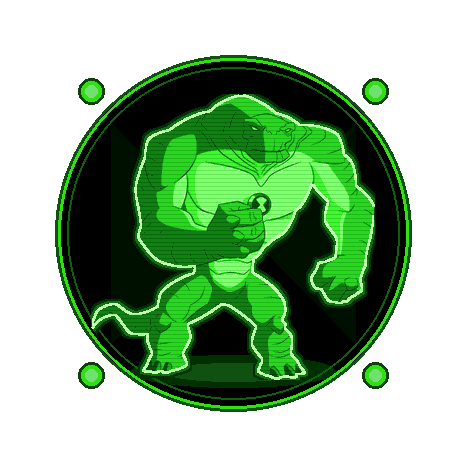
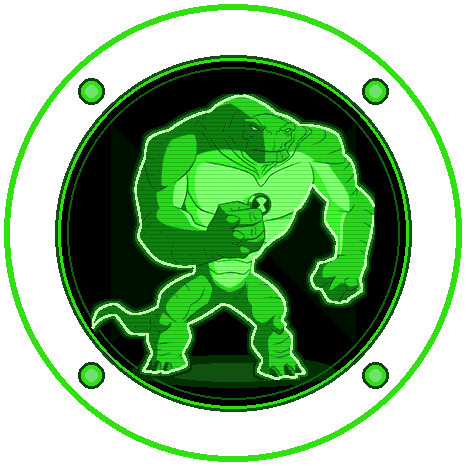
Start Alien Force template on auto-red Omnitrix with adaptive color-matched battery ring

diff --git a/studio/index.html b/studio/index.html
@@ -871,14 +871,14 @@
               <select id="tsMode" onchange="syncTapUI(); schedulePreview();">
                 <option value="day_night">Day / Night Theme Gradients</option>
                 <option value="omnitrix_themes">Ben 10 Omnitrix Themes</option>
-                <option value="custom_images">Custom Uploaded Images (2–6)</option>
+                <option value="custom_images">Custom Uploaded Images (2–8)</option>
               </select>
             </div>
             <button type="button" class="btn btn-sm" onclick="cycleTapPreview()">Simulate Watch Tap · Next Scene ↻</button>
 
             <div id="tsDayNightBox" class="sub-box">
               <div style="display:flex; justify-content:space-between; align-items:center;">
-                <span style="font-size:11.5px; font-weight:600;">Gradient Scenes (2–6)</span>
+                <span style="font-size:11.5px; font-weight:600;">Gradient Scenes (2–8)</span>
                 <button type="button" class="btn btn-xs" onclick="addTapTheme()">+ Theme</button>
               </div>
               <div id="tsThemesList" style="display:flex; flex-direction:column; gap:6px;"></div>
@@ -895,14 +895,14 @@
                 </select>
               </div>
               <div class="prop-row">
-                <label>Themes to Cycle (2–6)</label>
+                <label>Themes to Cycle (2–8)</label>
                 <div class="check-grid" id="tsOmniThemeChecks"></div>
               </div>
             </div>
 
             <div id="tsCustomBox" class="sub-box" style="display:none;">
               <div class="dropzone" id="tsDropzone" onclick="document.getElementById('tsFileInput').click()">
-                Add 2–6 scene images (PNG / JPG / WEBP)
+                Add 2–8 scene images (PNG / JPG / WEBP)
                 <input type="file" id="tsFileInput" accept="image/*" multiple style="display:none" onchange="addTapCustomImages(this.files); this.value='';" />
               </div>
               <div class="asset-grid" id="tsCustomGrid"></div>
@@ -1349,6 +1349,7 @@
               <label>Style</label>
               <select id="gStyle" onchange="onGaugeStyleChange(this.value)">
                 <option value="ring">Outer 360° Ring (01 12)</option>
+                <option value="ring_mask">Adaptive Color-Match Ring Mask (01 12)</option>
                 <option value="inner_ring">Inner 360° Ring (01 12)</option>
                 <option value="arc">Bottom Curved Arc (01 12)</option>
                 <option value="top_arc">Top Curved Arc (01 12)</option>
@@ -1644,7 +1645,8 @@
         if (!g) return null;
         const isNative = g.kind === "native_battery_bar" || g.style === "native_bar";
         const isOmniLow = g.style === "omnitrix_low_red";
-        const lbl = isNative ? "Batt Fill Bar (01 05)" : isOmniLow ? "Low-Batt Red (<50%)" : `Gauge · ${cap(g.metric || "battery")}`;
+        const isRingMask = g.style === "ring_mask";
+        const lbl = isNative ? "Batt Fill Bar (01 05)" : isOmniLow ? "Low-Batt Red (<50%)" : isRingMask ? "Adaptive Batt Ring" : `Gauge · ${cap(g.metric || "battery")}`;
         return { label: lbl, icon: isNative ? "🔋" : isOmniLow ? "⚡" : "◔", enabled: g.enabled !== false, removable: true };
       }
       if (tok.startsWith("overlay:")) {
@@ -1907,7 +1909,7 @@
     function syncGaugeFieldVisibility(style) {
       const isNative = style === "native_bar";
       const isOmniLow = style === "omnitrix_low_red";
-      const isRingOrArc = ["ring", "inner_ring", "arc", "top_arc", "left_arc", "right_arc"].includes(style);
+      const isRingOrArc = ["ring", "ring_mask", "inner_ring", "arc", "top_arc", "left_arc", "right_arc"].includes(style);
       const isPos = ["bar", "icon", "native_bar"].includes(style);
       document.getElementById("gMetricRow").style.display = (isNative || isOmniLow) ? "none" : "flex";
       document.getElementById("gBorderColRow").style.display = isNative ? "flex" : "none";
@@ -1925,6 +1927,7 @@
       g.kind = (style === "native_bar") ? "native_battery_bar" : "progress";
       if (style === "native_bar") { g.metric = "battery"; if (!g.width || g.width > 120) g.width = 56; g.height = g.height || 24; }
       if (style === "omnitrix_low_red") { g.metric = "battery"; g.color = "#ff1818"; g.threshold_pct = 50; g.brightness = 90; }
+      if (style === "ring_mask") { g.metric = "battery"; g.color = "#161a1e"; g.thickness = 8; g.radius_inset = 3; }
       bindGaugeInspector(g.id);
       renderLayerList();
       syncDragChips();
@@ -2118,7 +2121,7 @@
     }
 
     function addTapTheme() {
-      if (tapDayNightThemes.length >= 6) { toast("Max 6 tap-switch scenes.", true); return; }
+      if (tapDayNightThemes.length >= 8) { toast("Max 8 tap-switch scenes.", true); return; }
       tapDayNightThemes.push({ label: `Theme ${tapDayNightThemes.length + 1}`, c1: "#0a1020", c2: "#223b66" });
       syncTapUI();
       schedulePreview();
@@ -2139,7 +2142,7 @@
 
     function toggleTapOmniTheme(key, on) {
       if (on) {
-        if (tapOmniThemes.length >= 6) { toast("Max 6 themes can be cycled.", true); renderTapOmniChecks(); return; }
+        if (tapOmniThemes.length >= 8) { toast("Max 8 themes can be cycled.", true); renderTapOmniChecks(); return; }
         if (!tapOmniThemes.includes(key)) tapOmniThemes.push(key);
       } else {
         if (tapOmniThemes.length <= 2) { toast("Keep at least 2 themes for tap-to-switch.", true); renderTapOmniChecks(); return; }
@@ -2151,8 +2154,8 @@
 
     function addTapCustomImages(files) {
       if (!files || !files.length) return;
-      const remain = 6 - tapCustomFrames.length;
-      if (remain <= 0) { toast("Maximum 6 scenes reached.", true); return; }
+      const remain = 8 - tapCustomFrames.length;
+      if (remain <= 0) { toast("Maximum 8 scenes reached.", true); return; }
       Array.from(files).slice(0, remain).forEach(file => {
         if (!file.type.startsWith("image/") || file.size > 16 * 1024 * 1024) return;
         const r = new FileReader();
@@ -2169,7 +2172,7 @@
     function renderTapCustomGrid() {
       const grid = document.getElementById("tsCustomGrid");
       if (!tapCustomFrames.length) {
-        grid.innerHTML = '<div style="grid-column:1/-1; font-size:11px; color:var(--label-tertiary); text-align:center; padding:6px;">No scenes uploaded yet (need 2–6).</div>';
+        grid.innerHTML = '<div style="grid-column:1/-1; font-size:11px; color:var(--label-tertiary); text-align:center; padding:6px;">No scenes uploaded yet (need 2–8).</div>';
         return;
       }
       grid.innerHTML = tapCustomFrames.map((f, i) => `
@@ -2920,29 +2923,36 @@
       } else if (t === "alien_force_holograms") {
         document.getElementById("presetName").value = "Alien Force Holograms";
         loadConfigIntoUI({
-          layer_order: ["background", "tap_switch", "gauge:g_low_red", "hands"],
+          layer_order: ["background", "gauge:g_low_red", "tap_switch", "gauge:g_batt_ring", "hands"],
           background: {
             mode: "image",
-            image_path: "builtin://alien_force_holograms/bg_bezel.png",
+            image_path: "builtin://alien_force_holograms/bg_omnitrix_green.png",
             color: "#000000", color2: "#000000", brightness: 100, vignette: 0
           },
           tap_switch: {
             enabled: true, mode: "custom_images", size: 466, circular: true, opacity: 100, brightness: 100,
             x: 233, y: 233, preview_index: 0,
             frames: [
-              { label: "Swampfire",    image_path: "builtin://alien_force_holograms/ts_01_swampfire.png",    thumb_url: "/builtin-assets/alien_force_holograms/ts_01_swampfire.png" },
-              { label: "Humungousaur", image_path: "builtin://alien_force_holograms/ts_02_humungousaur.png", thumb_url: "/builtin-assets/alien_force_holograms/ts_02_humungousaur.png" },
-              { label: "Big Chill",    image_path: "builtin://alien_force_holograms/ts_03_bigchill.png",     thumb_url: "/builtin-assets/alien_force_holograms/ts_03_bigchill.png" },
-              { label: "Jetray",       image_path: "builtin://alien_force_holograms/ts_04_jetray.png",       thumb_url: "/builtin-assets/alien_force_holograms/ts_04_jetray.png" },
-              { label: "Echo Echo",    image_path: "builtin://alien_force_holograms/ts_05_echoecho.png",     thumb_url: "/builtin-assets/alien_force_holograms/ts_05_echoecho.png" },
-              { label: "Timeout Red",  image_path: "builtin://alien_force_holograms/ts_06_timeout_red.png",  thumb_url: "/builtin-assets/alien_force_holograms/ts_06_timeout_red.png" }
+              { label: "Omnitrix (<50% Auto-Red)", image_path: "builtin://alien_force_holograms/ts_00_clear.png",       thumb_url: "/builtin-assets/alien_force_holograms/bg_omnitrix_green.png" },
+              { label: "Swampfire",                image_path: "builtin://alien_force_holograms/ts_01_swampfire.png",   thumb_url: "/builtin-assets/alien_force_holograms/ts_01_swampfire.png" },
+              { label: "Humungousaur",             image_path: "builtin://alien_force_holograms/ts_02_humungousaur.png",thumb_url: "/builtin-assets/alien_force_holograms/ts_02_humungousaur.png" },
+              { label: "Big Chill",                image_path: "builtin://alien_force_holograms/ts_03_bigchill.png",    thumb_url: "/builtin-assets/alien_force_holograms/ts_03_bigchill.png" },
+              { label: "Jetray",                   image_path: "builtin://alien_force_holograms/ts_04_jetray.png",      thumb_url: "/builtin-assets/alien_force_holograms/ts_04_jetray.png" },
+              { label: "Echo Echo",                image_path: "builtin://alien_force_holograms/ts_05_echoecho.png",    thumb_url: "/builtin-assets/alien_force_holograms/ts_05_echoecho.png" },
+              { label: "Timeout Red",              image_path: "builtin://alien_force_holograms/ts_06_timeout_red.png", thumb_url: "/builtin-assets/alien_force_holograms/ts_06_timeout_red.png" }
             ]
           },
-          gauges: [{
-            id: "g_low_red", enabled: true, kind: "progress", metric: "battery", style: "omnitrix_low_red",
-            omni_style: "alien_force", color: "#ff1818", threshold_pct: 50, omni_glow: 1.0, omni_ticks: true,
-            brightness: 100, image_path: "builtin://alien_force_holograms/ts_06_timeout_red.png"
-          }],
+          gauges: [
+            {
+              id: "g_low_red", enabled: true, kind: "progress", metric: "battery", style: "omnitrix_low_red",
+              omni_style: "alien_force", color: "#ff1818", threshold_pct: 50, omni_glow: 1.0, omni_ticks: true,
+              brightness: 100, image_path: "builtin://alien_force_holograms/ts_06_timeout_red.png"
+            },
+            {
+              id: "g_batt_ring", enabled: true, kind: "progress", metric: "battery", style: "ring_mask",
+              color: "#161a1e", thickness: 8, radius_inset: 3
+            }
+          ],
           analog_hands: { enabled: true, style: "omnitrix_glass", color: "#d8e2ec", accent_color: "#ffffff", show_seconds: true, center_cap: false },
           bezel: { enabled: false }, weather: { enabled: false }, bluetooth: { enabled: false },
           digital_clock: { enabled: false }, weekday: { enabled: false }, date: { enabled: false }, telemetry: { enabled: false }

diff --git a/scripts/watchface_compiler.py b/scripts/watchface_compiler.py
@@ -472,7 +472,7 @@ def build_tap_switch_assets(ts_cfg, posterize_bits=None):
     circular = bool(ts_cfg.get("circular", True))
     brightness = float(ts_cfg.get("brightness", 100))
     opacity = float(ts_cfg.get("opacity", 100))
-    count_cap = max(2, min(6, int(ts_cfg.get("count", 6))))
+    count_cap = max(2, min(8, int(ts_cfg.get("count", 8))))
     vignette = float(ts_cfg.get("vignette", 0)) if size >= W else 0.0
     cx = int(ts_cfg.get("x", CX))
     cy = int(ts_cfg.get("y", CY))
@@ -1749,6 +1749,24 @@ def build_battery_widget(batt_cfg):
         blank = Image.new("RGBA", (W, H), (0, 0, 0, 0))
         for step in range(11):
             frames.append(red_img if (step * 10 < threshold_pct) else blank)
+        return 0, 0, frames
+
+    if style == "ring_mask":
+        # Adaptive color-matching 360° battery/progress ring via inverse masking:
+        # leaves the filled arc transparent (revealing green/red/custom ring art beneath)
+        # and covers the unfilled portion in a crisp opaque dark track color.
+        track_rgb = _safe_hex_rgb(batt_cfg.get("color", "#161a1e"), (22, 26, 30))
+        bbox = (inset, inset, W - 1 - inset, H - 1 - inset)
+        for step in range(11):
+            img = Image.new("RGBA", (W, H), (0, 0, 0, 0))
+            if step < 10:
+                d = ImageDraw.Draw(img)
+                if step == 0:
+                    d.arc(bbox, start=-90, end=270, fill=(*track_rgb, 255), width=thickness)
+                else:
+                    sweep = int(360 * step / 10)
+                    d.arc(bbox, start=-90 + sweep, end=270, fill=(*track_rgb, 255), width=thickness)
+            frames.append(img)
         return 0, 0, frames
 
     if style in ("ring", "inner_ring"):

diff --git a/studio/server.py b/studio/server.py
@@ -486,7 +486,7 @@ def resolve_config_assets(cfg, temp_dir=None, filename=None, persist_dir=None):
     # 2. Tap-to-Switch custom scene frames (01 1a)
     ts = cfg_copy.get("tap_switch")
     if isinstance(ts, dict) and isinstance(ts.get("frames"), list):
-        for idx, fr in enumerate(ts["frames"][:6]):
+        for idx, fr in enumerate(ts["frames"][:8]):
             if not isinstance(fr, dict):
                 continue
             fr.pop("thumb_url", None)

diff --git a/README.md b/README.md
@@ -24,7 +24,7 @@ Overcomes the default Haylou Fun companion app limitations—fixed clock placeme
   - **Direct 1:1 drag-and-drop positioning** for every widget, sticker, text label, GIF zone, and telemetry sensor on the watch face with magnetic center-snap guides, arrow-key nudging, and live coordinate HUD.
   - **Saved Presets Library:** Save, edit (with full asset re-hydration), duplicate, delete, export/import `.face.zip` packages (including all uploaded assets), import `.bin` files, and push any preset to your phone over ADB in one click.
 - **Tap-to-Switch Multi-Scene / Theme Art (`01 1a`):**
-  - Tap your watch screen to cycle between 2–6 interactive scenes: **Day/Night gradient themes**, **Ben 10 Omnitrix themes**, or **custom uploaded artwork**, with a live **"Tap Scene" preview tester** built into Studio.
+  - Tap your watch screen to cycle between 2–8 interactive scenes: **Day/Night gradient themes**, **Ben 10 Omnitrix themes**, or **custom uploaded artwork**, with a live **"Tap Scene" preview tester** built into Studio.
 - **Procedural Bezel & Index Tick Generator (`01 00`):**
   - 8 crisp 2×-supersampled bezel styles (**Minimal Dots**, **Classic Baton**, **Diver Watch Indices**, **Roman Numerals**, **Arabic Numerals**, **Motorsport Tachymeter**, **Neon Rings**, and **Tactical Radar HUD**) with primary/accent colors, inset, opacity, glow, and optional minute sub-ticks.
 - **Pure Image Mode (No Clock):**
@@ -52,7 +52,7 @@ Overcomes the default Haylou Fun companion app limitations—fixed clock placeme
   - Unlocks hidden Watch 4S health cards & firmware-verified BLE controls (PAI, VO2 Max, HRV, Active/Standing Hours, High/Low Heart Rate Alert `0x87 02`, and Daytime Sleep Naps `0xBC 01`), unlocks Watch 4S's native **30-minute hardware step histograms (`0x59`)** plus **Hourly Steps, Calories & Exercise Day Charts** across Daily Activities, Steps/Calories `D` tabs, and Home mini cards, adds a 3rd **Resting Heart Rate** card to Heart Rate Details, runs on-device **Vitality Score (PAI)**, **VO2 Max**, **Workout Analytics** (Aerobic & Anaerobic Training Effect `0.2–5.0`, Exercise Load / EPOC, Recovery Time, and Per-Workout VO2 Max in `SportDetailActivity`), **30-Minute Stress-Derived HRV**, and **Hourly Active / Standing Hours (12h)** engines, unlocks a **Night Raise-to-Wake Schedule** (**Device settings → DND mode**, wired exclusively to BLE `0x72` `sendQuickViewTime` so wrist-wake turns off at night, default `23:00–07:00`, while calls & notifications stay active), adds **Cycling Fixes** (strips handlebar-vibration phantom cycling steps using exact Watch 4S `0x59` 30-min hardware overlap—persisted across midnight in local-only `SportTable.sportcounter`—with a `30 steps/min` historical fallback and lossless self-healing while preserving bike distance/calories, computes true moving time & moving average speed on synced GPS rides while keeping `SportTable.points` intact for Strava's smooth velocity curve, and adds live GPS auto-pause/auto-resume for phone-started rides), and adds **VoIP Incoming Call Alerts + Wrist Reject** (WhatsApp, WhatsApp Business, Messenger, Instagram, Telegram, Viber, and Discord ring Watch 4S with the real caller name via BLE `0x41` and execute the VoIP app's Decline action when rejected from the wrist).
 - **Ben 10 Omnitrix Generator & Built-In Alien Force Holograms Template:**
   - 4 built-in series faceplates (**Alien Force / UAF**, **Original Series**, **Omniverse**, **5 Years Later**) with 6 preset colorways + full custom hex color picker and glow control.
-  - Built-in **Alien Force · 5 Holograms** template (`studio/assets/alien_force_holograms/`): tap-to-switch (`01 1a`) through 5 neon-green Alien Force holograms (**Swampfire**, **Humungousaur**, **Big Chill**, **Jetray**, **Echo Echo**) + **Timeout Red** on Tap #6, with color-neutral **Omnitrix Silver Glass** orbital hands and automatic **`<50%` Battery Red Timeout** shift (`01 12`) in a compact `~632 KB` Watch 4S `.bin`.
+  - Built-in **Alien Force · 5 Holograms** template (`studio/assets/alien_force_holograms/`): defaults to the active green **Alien Force Omnitrix** that automatically shifts to **Timeout Red** (faceplate + outer battery ring) below `50%` battery (`01 12`), and tap-switches (`01 1a`, layered above) through 5 neon-green Alien Force holograms (**Swampfire**, **Humungousaur**, **Big Chill**, **Jetray**, **Echo Echo**) plus **Timeout Red** on Tap #7, complete with an **Adaptive Color-Matching 360° Battery Ring** (`ring_mask`, green on green scenes and red on red scenes) and **Omnitrix Silver Glass** orbital hands.
 - **Safe & 100% Reversible:**
   - Installs strictly into the watch's official cloud dial slot (`CRPWatchFaceInfo.WacthFaceType.JIELI`). Never flashes firmware or bootloaders. Switching watchfaces on the watch restores stock dials immediately.
 
